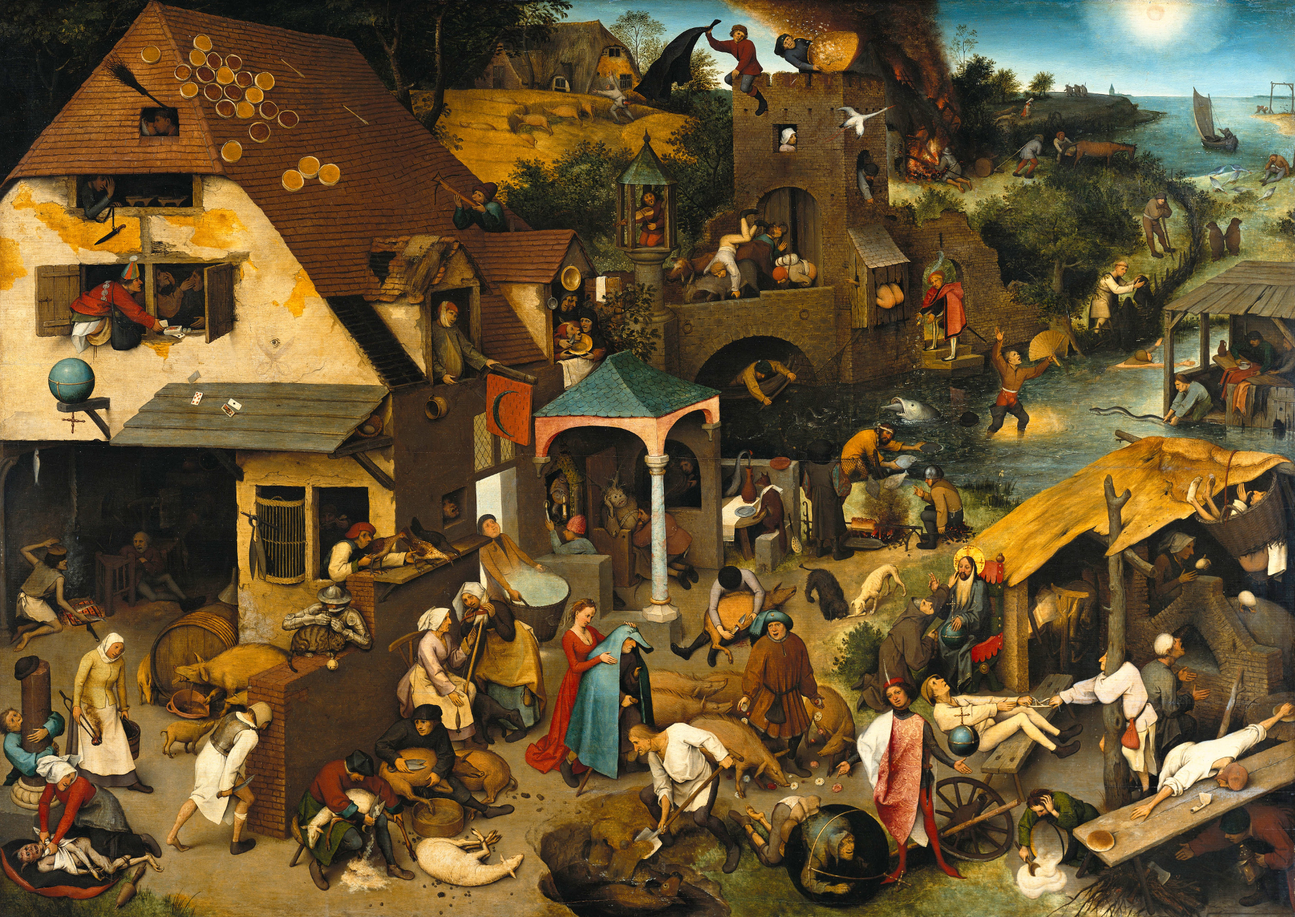
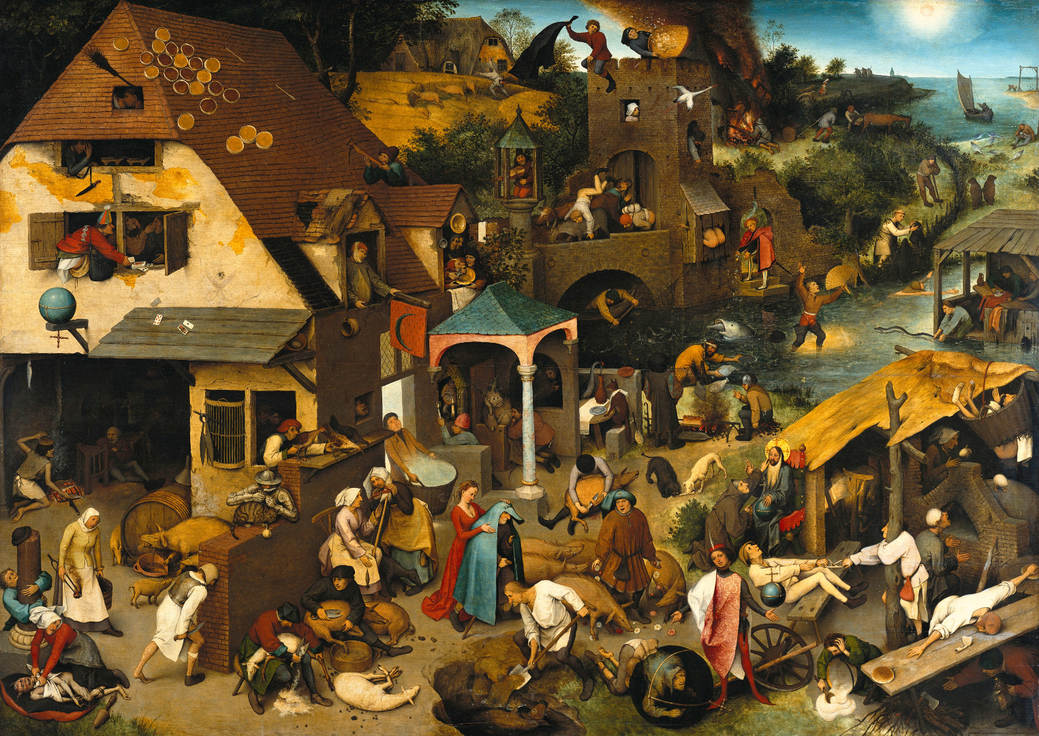
Added vector based zoom animation

diff --git a/examples/p5.Image/zoom-image.js b/examples/p5.Image/zoom-image.js
@@ -3,13 +3,32 @@ var proverbs,
   RECT_HEIGHT,
   rectX,
   rectY,
-  isZoomed = false;
+  dx,
+  dy,
+  dWidth,
+  dHeight,
+  isZoomed = false,
+  destTopLeft,
+  destBottomRight,
+  particleA,
+  particleB,
+  extraSpeed = 1.5,
+  FRAME_RATE = 30;
 
 function setup() {
+  frameRate(FRAME_RATE);
+
   proverbs = loadImage('netherlandish_proverbs.jpg', function () {
     createCanvas(proverbs.width, proverbs.height);
-    RECT_WIDTH = floor(proverbs.width * 0.05);
+    image(proverbs, 0, 0);
+    RECT_WIDTH = floor(proverbs.width * 0.075);
     RECT_HEIGHT = floor(RECT_WIDTH / (proverbs.width / proverbs.height));
+    dWidth = RECT_WIDTH * 10;
+    dHeight = RECT_HEIGHT * 10;
+    dx = floor((proverbs.width / 2) - (dWidth / 2));
+    dy = floor((proverbs.height / 2) - (dHeight / 2));
+    destTopLeft = createVector(dx, dy);
+    destBottomRight = createVector(dx + dWidth, dy + dHeight);
   });
 }
 
@@ -19,14 +38,23 @@ function draw() {
   stroke('#FFFFF');
   strokeWeight(2);
 
-  var dHeight = window.innerWidth / (proverbs.width / proverbs.height);
-  image(proverbs, 0, 0, window.innerWidth, dHeight);
+  image(proverbs, 0, 0);
 
   if (isZoomed) {
+    particleA.update();
+    particleB.update();
+
+    var rect_x = particleA.position.x;
+    var rect_y = particleA.position.y;
+    var rect_width = particleB.position.x - particleA.position.x;
+    var rect_height = particleB.position.y - particleA.position.y;
+
+    rect(rect_x, rect_y, rect_width, rect_height);
+
     // Draw a zoomed image of the current rect
-    var dWidth = window.innerWidth - 200;
-    image(proverbs, rectX, rectY, RECT_WIDTH, RECT_HEIGHT, 0, 0, proverbs.width, proverbs.height);
-    //rect(100, 100, dWidth, dHeight - 200);
+    image(proverbs, rectX, rectY, RECT_WIDTH, RECT_HEIGHT, rect_x, rect_y,
+      rect_width, rect_height);
+
     return;
   }
 
@@ -41,7 +69,28 @@ function draw() {
 }
 
 function mouseClicked() {
+  console.log(touchX, touchY);
+  var origin = createVector(mouseX, mouseY);
+  var topLeftDist = p5.Vector.dist(destTopLeft, origin);
+  var bottomRightDist = p5.Vector.dist(destBottomRight, origin);
+  var multiplierA;
+  var multiplierB;
+
+  if (topLeftDist < bottomRightDist) {
+    multiplierA = topLeftDist / FRAME_RATE;
+    multiplierB = multiplierA * (bottomRightDist / topLeftDist);
+  } else if (bottomRightDist < topLeftDist) {
+    multiplierB = bottomRightDist / FRAME_RATE;
+    multiplierA = multiplierB * (topLeftDist / bottomRightDist);
+  } else {
+    multiplierB = multiplierA = topLeftDist / FRAME_RATE;
+  }
+
+  particleA = new Particle(origin, destTopLeft, multiplierA * extraSpeed);
+  particleB = new Particle(origin, destBottomRight, multiplierB * extraSpeed);
+
   isZoomed = !isZoomed;
+  return false;
 }
 
 /**
@@ -56,3 +105,23 @@ function applyCoordBoundary(coord, sideLength, boundary) {
   }
   return coord;
 }
+
+// A simple Particle class
+var Particle = function (position, dest, speed) {
+  this.position = position.copy();
+  this.dest = dest.copy();
+  this.acceleration = createVector(0.00, 0.00);
+  this.direction = p5.Vector.sub(dest, position);
+  this.direction.normalize();
+  this.direction.mult(speed);
+  this.velocity = createVector(this.direction.x, this.direction.y); //createVector(0, 0);
+};
+
+// Method to update position
+Particle.prototype.update = function () {
+  this.velocity.add(this.acceleration);
+  if (p5.Vector.dist(this.dest, this.position) < 15) {
+    this.velocity = createVector(0, 0);
+  }
+  this.position.add(this.velocity);
+};

diff --git a/examples/p5.Image/zoom.html b/examples/p5.Image/zoom.html
@@ -3,5 +3,5 @@
   <script language="javascript" type="text/javascript" src="zoom-image.js"></script>
 </head>
 
-<body>
+<body style="margin: 0px; text-align: center;">
 </body>
